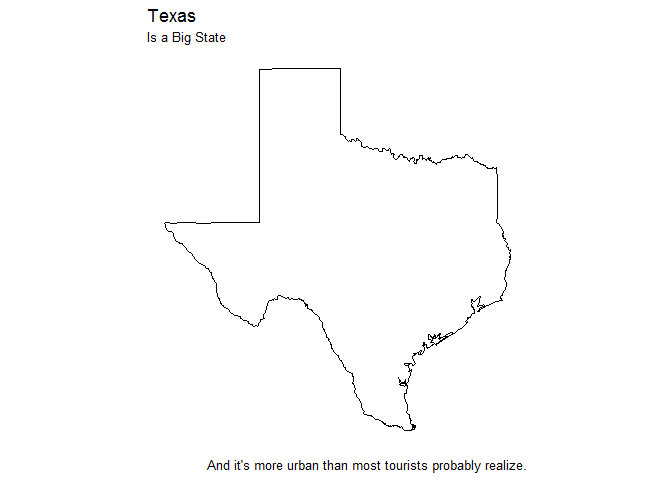
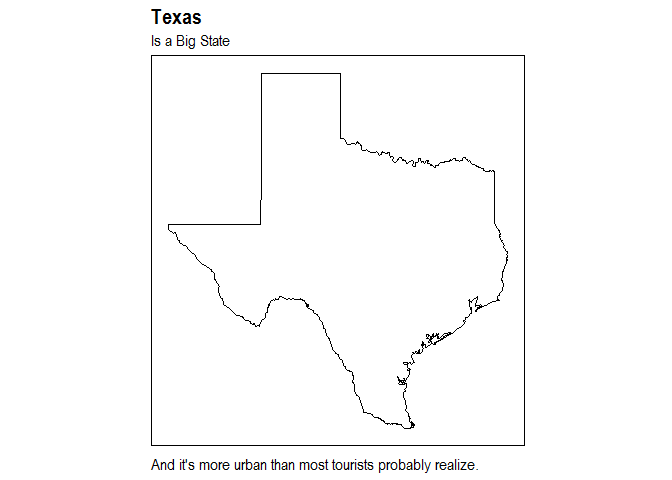
regenerated readme; seems like i need to reinstall rlang everytime?

diff --git a/README.md b/README.md
@@ -16,19 +16,26 @@ Notes
 
 Here is a list of all functions in the package.
 
-    #>  [1] "convert_state_abb_to_name" "create_map_state"         
-    #>  [3] "get_color_inv"             "get_map_data_county"      
-    #>  [5] "get_map_data_county_tx"    "get_map_data_state"       
-    #>  [7] "get_map_data_state_tx"     "ggmap_stamen_tx"          
-    #>  [9] "ggmap_stamen_tx_raw"       "scale_color_te"           
-    #> [11] "scale_fill_te"             "spdf_tx"                  
-    #> [13] "spdf_tx_precip"            "te_colors"                
-    #> [15] "theme_te"                  "theme_te_dx"              
-    #> [17] "theme_te_facet"            "theme_te_facet_dx"        
-    #> [19] "theme_te_map"              "tmap_tx"
+    #>  [1] "convert_state_abb_to_name" "create_map_base"          
+    #>  [3] "create_map_base_tx"        "create_map_state"         
+    #>  [5] "get_color_inv"             "get_map_data_county"      
+    #>  [7] "get_map_data_county_tx"    "get_map_data_state"       
+    #>  [9] "get_map_data_state_tx"     "ggmap_stamen_tx"          
+    #> [11] "ggmap_stamen_tx_raw"       "labs_xy_null"             
+    #> [13] "scale_color_te"            "scale_fill_te"            
+    #> [15] "scale_x_pretty_comma"      "scale_x_pretty_percent"   
+    #> [17] "scale_xy_pretty_comma"     "scale_xy_pretty_percent"  
+    #> [19] "scale_y_pretty_comma"      "scale_y_pretty_percent"   
+    #> [21] "spdf_tx"                   "spdf_tx_precip"           
+    #> [23] "te_colors"                 "theme_map"                
+    #> [25] "theme_te"                  "theme_te_dx"              
+    #> [27] "theme_te_facet"            "theme_te_facet_dx"        
+    #> [29] "tmap_tx"
 
 Examples
 --------
+
+### `theme_te*()` and `te_colors`
 
 Here are some examples showing my custom theme and color palette.
 
@@ -89,6 +96,7 @@ viz_diamonds +
 viz_diamonds_facet <-
   viz_diamonds +
   facet_wrap( ~ cut, scales = "free")
+
 # viz_diamonds_facet + theme_grey()
 viz_diamonds_facet +
   teplot::scale_fill_te() +
@@ -108,6 +116,22 @@ viz_diamonds_facet +
 
 Here are some examples showing the map functions.
 
+``` r
+teplot::create_map_state(state = "texas", show_county = FALSE) +
+  teplot::theme_map() +
+  labs(title = "Texas", 
+       subtitle = "Is a Big State",
+       caption = "And it's more urban than most tourists probably realize.")
+```
+
+![](man/README/README-unnamed-chunk-7-1.png)
+
+``` r
+teplot::create_map_base(state = "texas")
+```
+
+![](man/README/README-unnamed-chunk-8-1.png)
+
 (Credit to <https://journal.r-project.org/archive/2013-1/kahle-wickham.pdf> for the data for the following example.)
 
 ``` r
@@ -119,7 +143,7 @@ ggmap_stamen_tx +
   geom_point(data = crime, aes(x = lon, y = lat), color = "red", size = 1)
 ```
 
-![](man/README/README-unnamed-chunk-7-1.png)
+![](man/README/README-unnamed-chunk-9-1.png)
 
 (Credit to <https://mgimond.github.io/Spatial/interpolation-in-r.html> for the data for the following example.)
 
@@ -139,4 +163,4 @@ tmap::tm_shape(spdf_tx) +
   )
 ```
 
-![](man/README/README-unnamed-chunk-8-1.png)
+![](man/README/README-unnamed-chunk-10-1.png)
